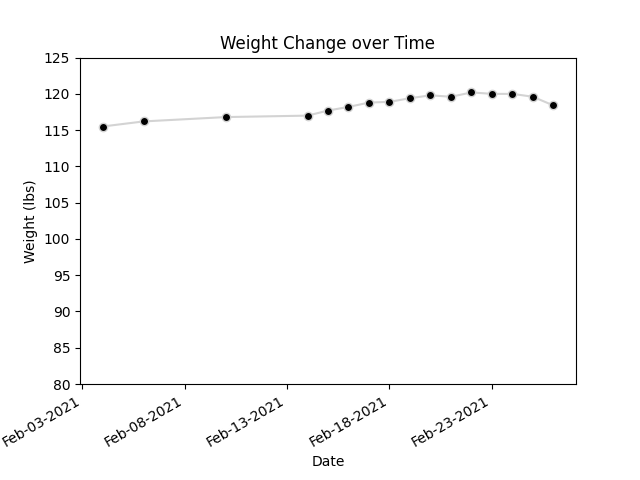
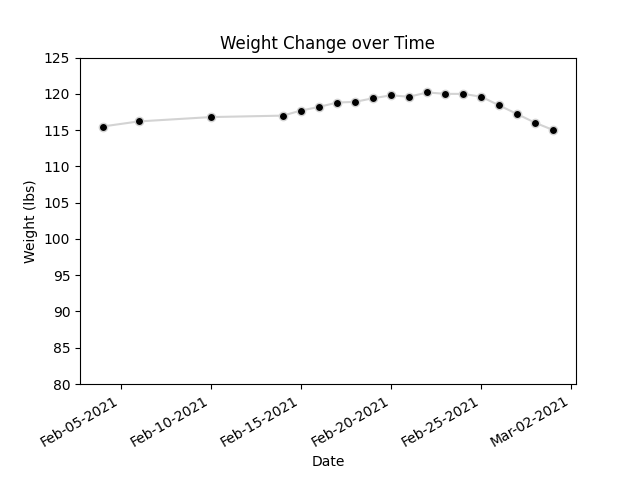
entry-based GUI

diff --git a/main.py b/main.py
@@ -4,154 +4,16 @@ Date: 2-24-2021
 
 This script simply tracks weight loss over time.
 Progress visualized as a connected scatter plot.
-
-The next step is to create a GitHub repository - done
-The next next step is to branch off a GUI version of this app
 """
-from datetime import date, datetime
-import csv
-import matplotlib.pyplot as plt
-import matplotlib.dates as mdates
-import tkinter as tk
-from functools import partial
-import yagmail
 
+import GUIWindow as gw
+# import logger as lg
 
-def show_entry_fields(e1, e2):
-    print("Date: %s\nWeight: %s" % (e1.get(), e2.get()))
-
-
-def create_entry_window():
-    master = tk.Tk()
-    master.title("WeightLogger GUI")
-
-    tk.Label(master, text="Date").grid(row=0)
-    tk.Label(master, text="Weight (lbs)").grid(row=1)
-    e1 = tk.Entry(master)
-    e2 = tk.Entry(master)
-    e1.grid(row=0, column=1)
-    e2.grid(row=1, column=1)
-
-    tk.Button(master,
-              text='Quit',
-              command=master.quit).grid(row=3,
-                                        column=0,
-                                        sticky=tk.W,
-                                        pady=4)
-
-    tk.Button(master,
-              text='Show',
-              command=partial(show_entry_fields, e1, e2)).grid(row=3,
-                                                               column=1,
-                                                               sticky=tk.W,
-                                                               pady=4)
-
-    master.mainloop()
-
-
-def log_weight():
-    filename = "weightLog.csv"
-    fields = ["date", "weight in lbs"]
-
-    with open(filename, 'a+', newline="") as csvfile:
-        writer = csv.DictWriter(csvfile, fieldnames=fields)
-        writer.writerows(get_user_input())
-
-
-def get_user_input():
-    # populate list with existing entered dates
-    list_of_dates = populate_date_list()
-
-    logdict = []
-    while True:
-        date_recorded = input("Enter date ('Jan-01-2010') / hit 'ENTER' if today / 'x' to exit): ")
-
-        # exit data entry
-        if date_recorded.upper() == "X":
-            break
-        else:
-            # easy log today's date
-            if date_recorded == "":
-                date_recorded = date.today().strftime("%b-%d-%Y")
-
-            # check for duplicate date
-            if date_recorded in list_of_dates:
-                print("Error: duplicate date. Please try again.")
-                continue
-
-            # validate input format
-            try:
-                datetime.strptime(date_recorded, '%b-%d-%Y')
-            except ValueError:
-                print("Incorrect format, should be MMM-DD-YYYY")
-                continue
-
-        # finish taking data point
-        weight = input("Enter weight: ")
-        logdict.append({"date": date_recorded, "weight in lbs": weight})
-
-    return logdict
-
-
-def populate_date_list():
-    list_of_dates = []
-    with open("weightLog.csv", 'r') as csvfile:
-        current_log = csv.reader(csvfile, delimiter=',')
-        for entry in current_log:
-            list_of_dates.append(entry[0])
-    return list_of_dates
-
-
-def show_log():
-    d = {}
-    with open('weightLog.csv', 'r') as csvfile:
-        plots = csv.reader(csvfile, delimiter=',')
-        for row in plots:
-            d[row[0]] = float(row[1])
-
-    # sort the dates by real time
-    # so that (date, weight) is plotted chronologically
-    sorted_dates = sorted(d, key=lambda date_k: datetime.strptime(date_k, '%b-%d-%Y'))
-
-    # plot data
-    x = [datetime.strptime(s, '%b-%d-%Y') for s in sorted_dates]  # convert to datetime object
-    y = [d[key] for key in sorted_dates]
-
-    # format the plot to reflect real time progression
-    plt.gca().xaxis.set_major_formatter(mdates.DateFormatter('%b-%d-%Y'))
-    plt.gca().xaxis.set_major_locator(mdates.DayLocator(interval=5))
-    plt.gca().set_ylim([80.0, 125.0])
-    plt.plot(x, y, color='lightgray', marker='o', markerfacecolor='black')
-    plt.gcf().autofmt_xdate()
-    plt.xlabel('Date')
-    plt.ylabel('Weight (lbs)')
-    plt.title("Weight Change over Time")
-    plt.gcf().canvas.set_window_title('WeightLogger')
-    plt.savefig('weightlog.png')
-    plt.show()
-
-
-def email_report(reporter):
-    if (reporter.upper() == 'Y'):
-        receiver = "theinimitableneil@gmail.com"
-        body = "This message was generated automatically to" \
-               " send you an updated report on Faye's weight loss journey. " \
-               "Please see attached."
-        filename = "weightlog.png"
-
-        # send email attachment of png figure
-        yag = yagmail.SMTP("faye.vainsencher@gmail.com")
-        yag.send(
-            to=receiver,
-            subject="AUTOGENERATED hotness report",
-            contents=body,
-            attachments=filename
-        )
 
 
 if __name__ == '__main__':
-    # create_entry_window()
+    gw.create_entry_window()
 
-    log_weight()
-    show_log()
-    email_report(input("Send report to Neil? (y/n): "))
+    # lg.log_weight()
+    # lg.show_log()
+    # lg.email_report(input("Send report to Neil? (y/n): "))

diff --git a/logger.py b/logger.py
@@ -1,0 +1,105 @@
+from datetime import date, datetime
+import csv
+import matplotlib.pyplot as plt
+import matplotlib.dates as mdates
+import yagmail
+
+
+def log_weight():
+    filename = "weightLog.csv"
+    fields = ["date", "weight in lbs"]
+
+    with open(filename, 'a+', newline="") as csvfile:
+        writer = csv.DictWriter(csvfile, fieldnames=fields)
+        writer.writerows(get_user_input())
+
+
+def get_user_input():
+    # populate list with existing entered dates
+    list_of_dates = populate_date_list()
+
+    logdict = []  # a list of dicts containing recorded (date,weight)
+    while True:
+        date_recorded = input("Enter date ('Jan-01-2010') / hit 'ENTER' if today / 'x' to exit): ")
+
+        # exit data entry
+        if date_recorded.upper() == "X":
+            break
+        else:
+            # easy log today's date
+            if date_recorded == "":
+                date_recorded = date.today().strftime("%b-%d-%Y")
+
+            # check for duplicate date
+            if date_recorded in list_of_dates:
+                print("Error: duplicate date. Please try again.")
+                continue
+
+            # validate input format
+            try:
+                datetime.strptime(date_recorded, '%b-%d-%Y')
+            except ValueError:
+                print("Incorrect format, should be MMM-DD-YYYY")
+                continue
+
+        # finish taking data point
+        weight = input("Enter weight: ")
+        logdict.append({"date": date_recorded, "weight in lbs": weight})
+
+    return logdict
+
+
+def populate_date_list():
+    list_of_dates = []
+    with open("weightLog.csv", 'r') as csvfile:
+        current_log = csv.reader(csvfile, delimiter=',')
+        for entry in current_log:
+            list_of_dates.append(entry[0])
+    return list_of_dates
+
+
+def show_log(filename):
+    d = {}
+    with open(filename, 'r') as csvfile:
+        plots = csv.reader(csvfile, delimiter=',')
+        for row in plots:
+            d[row[0]] = float(row[1])
+
+    # sort the dates by real time
+    # so that (date, weight) is plotted chronologically
+    sorted_dates = sorted(d, key=lambda date_k: datetime.strptime(date_k, '%b-%d-%Y'))
+
+    # plot data
+    x = [datetime.strptime(s, '%b-%d-%Y') for s in sorted_dates]  # convert to datetime object
+    y = [d[key] for key in sorted_dates]
+
+    # format the plot to reflect real time progression
+    plt.gca().xaxis.set_major_formatter(mdates.DateFormatter('%b-%d-%Y'))
+    plt.gca().xaxis.set_major_locator(mdates.DayLocator(interval=5))
+    plt.gca().set_ylim([80.0, 125.0])
+    plt.plot(x, y, color='lightgray', marker='o', markerfacecolor='black')
+    plt.gcf().autofmt_xdate()
+    plt.xlabel('Date')
+    plt.ylabel('Weight (lbs)')
+    plt.title("Weight Change over Time")
+    plt.gcf().canvas.set_window_title('WeightLogger')
+    plt.savefig('weightlog.png')
+    plt.show()
+
+
+def email_report(reporter):
+    if reporter.upper() == 'Y':
+        receiver = "theinimitableneil@gmail.com"
+        body = "This message was generated automatically to" \
+               " send you an updated report on Faye's weight loss journey. " \
+               "Please see attached."
+        filename = "weightlog.png"
+
+        # send email attachment of png figure
+        yag = yagmail.SMTP("faye.vainsencher@gmail.com")
+        yag.send(
+            to=receiver,
+            subject="AUTOGENERATED hotness report",
+            contents=body,
+            attachments=filename
+        )

diff --git a/GUIWindow.py b/GUIWindow.py
@@ -1,0 +1,100 @@
+import tkinter as tk
+from functools import partial
+import tkinter.font as font
+import logger as lg
+import csv
+
+# a global variable to collect new data until ready to commit to CSV
+logdict = []
+master = tk.Tk()
+
+
+# Collects new data in list of dicts
+def submit_handler(e1, e2):
+    date_recorded = e1.get()
+    weight = e2.get()
+
+    # handles empty entry case
+    if date_recorded != "" and weight != "":
+
+        # add input validation here
+
+        logdict.append({"date": date_recorded, "weight in lbs": weight})
+        # clears the entry text
+        e1.delete(0, "end")
+        e2.delete(0, "end")
+
+
+def write_new_data():
+    # add input validation
+
+    # setup a CSV writer
+    filename = "GUI_weightLog.csv"
+    fields = ["date", "weight in lbs"]
+    with open(filename, 'a+', newline="") as csvfile:
+        writer = csv.DictWriter(csvfile, fieldnames=fields)
+        writer.writerows(logdict)
+
+
+# there should be a view graph button that fires new data and generates graph
+def show_graph():
+    write_new_data()
+    lg.show_log("GUI_weightLog.csv")
+
+def custom_quit():
+
+    master.quit()
+    # how to close matplotlib window simultaneously
+    # there are two loops happening
+    # so presently requires two button clicks on quit to close all
+
+
+def create_entry_window():
+
+    master.geometry("+200+1000")
+    master.title("WeightLogger GUI")
+
+    # creates entry fields for user data
+    tk.Label(master, text="Date", font=("Arial", 25)).grid(row=0)
+    tk.Label(master, text="Weight (lbs)", font=("Arial", 25)).grid(row=1)
+    e1 = tk.Entry(master, font=("Arial", 20))
+    e2 = tk.Entry(master, font=("Arial", 20))
+    e1.grid(row=0, column=1, padx=30, pady=10, ipady=10)
+    e2.grid(row=1, column=1, padx=30, pady=10, ipady=10)
+
+    # creates action buttons
+    button_style = font.Font(family='Arial', size=25, weight='bold')
+    # quit button to end session
+    tk.Button(master,
+              text='Quit',
+              font=button_style,
+              command=custom_quit).grid(row=3,
+                                        column=0,
+                                        sticky=tk.W,
+                                        pady=10,
+                                        padx=100
+                                        )
+    # submit button to commit changes to weight log
+    tk.Button(master,
+              text='Submit',
+              font=button_style,
+              command=partial(submit_handler, e1, e2)).grid(row=3,
+                                                            column=1,
+                                                            sticky=tk.W,
+                                                            pady=10,
+                                                            padx=100)
+    # show button to plot updated graph
+    tk.Button(master,
+              text='Show',
+              font=button_style,
+              command=show_graph).grid(row=4,
+                                       column=1,
+                                       sticky=tk.W,
+                                       pady=10,
+                                       padx=100)
+
+    master.mainloop()
+
+
+if __name__ == '__main__':
+    create_entry_window()
